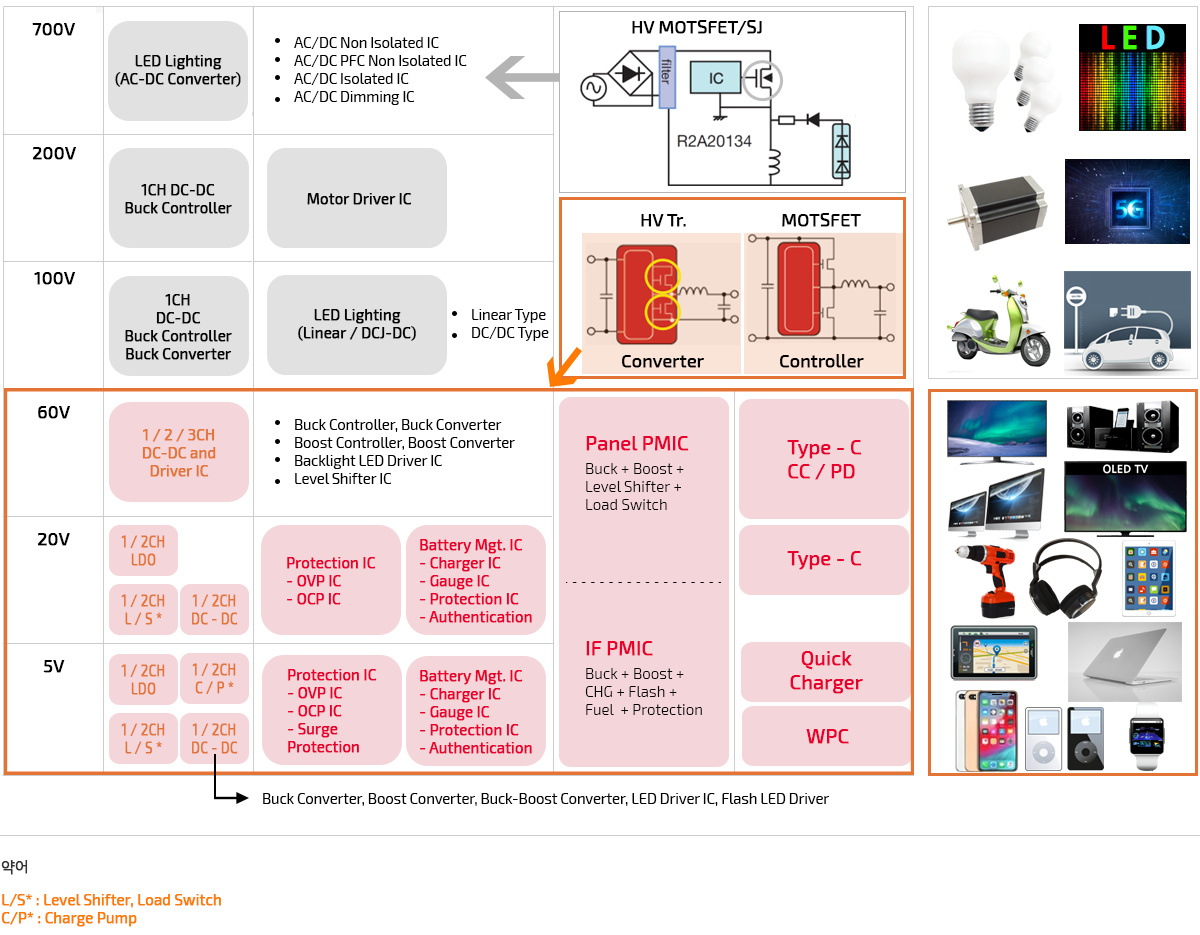
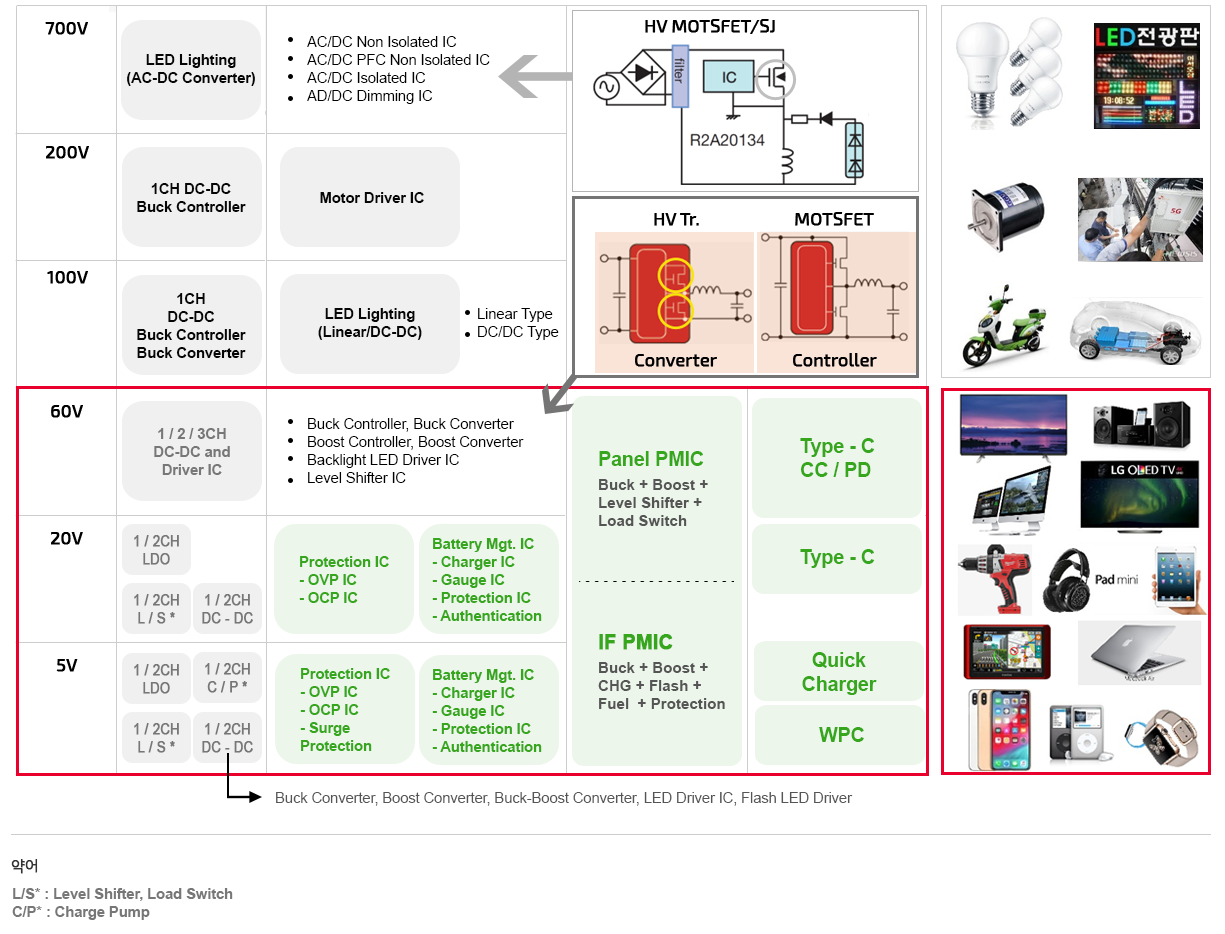
최주연_퍼블

diff --git a/src/main/web/resources/css/styles.css b/src/main/web/resources/css/styles.css
@@ -782,6 +782,9 @@ h7.s-title{font-weight: bold;}
 .fc_gr {
     color: #777 !important;
 }
+.fc_grn {
+    color: #61c44a !important;
+}
 #ct_pr_table > div, table td {
     text-align: center;
     font-size: 16px;
